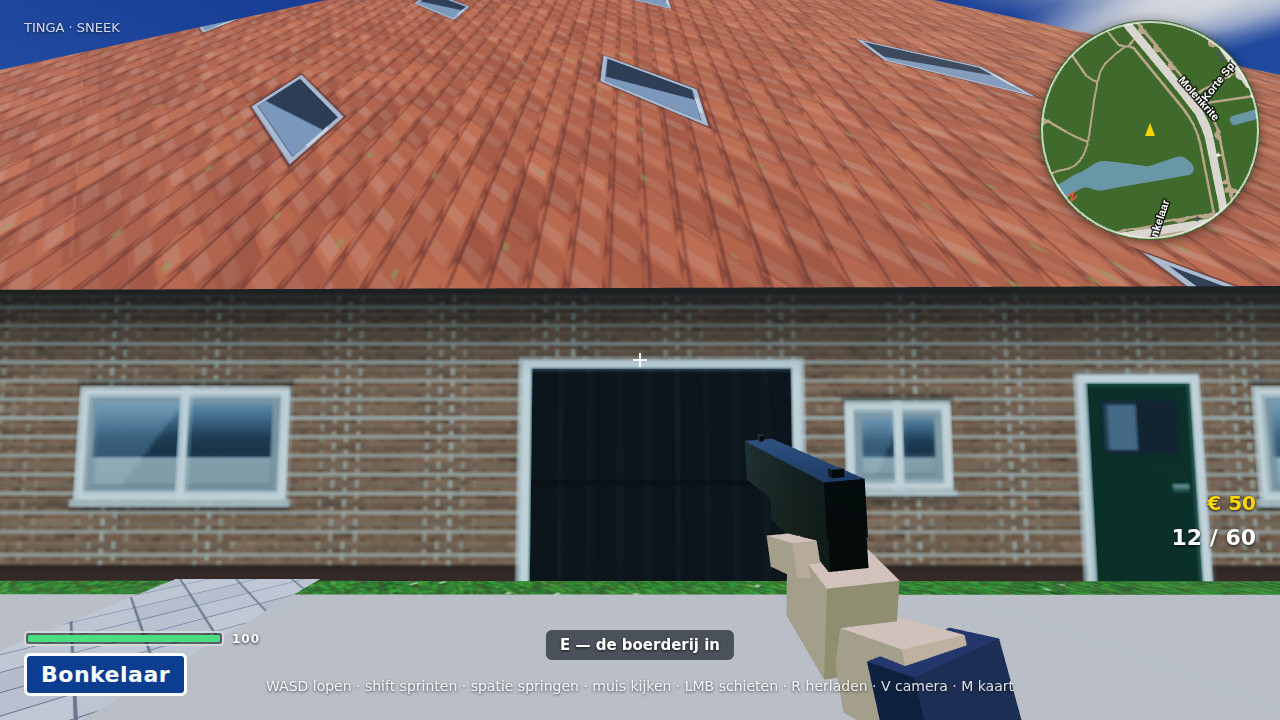
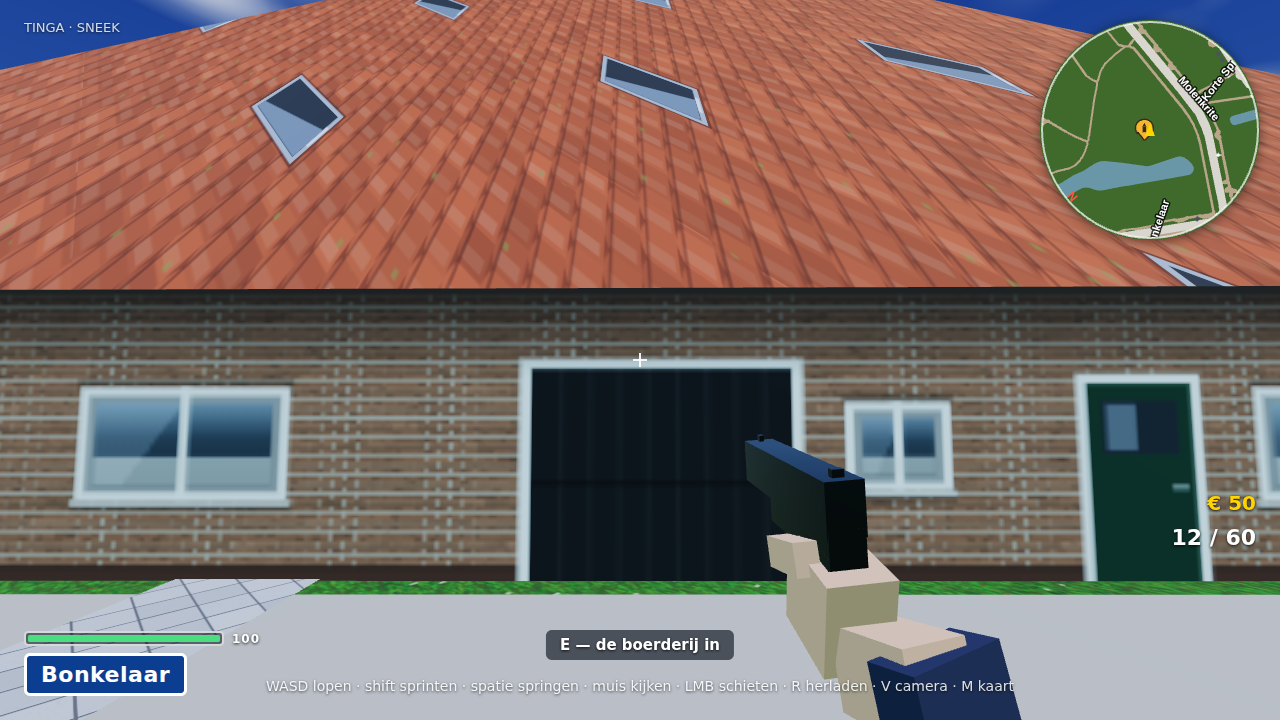
Winkelicoontje op de kaart bij Tinga State
Een amberkleurig speldje met een patroon erin, op de plek van de schuurdeur.
Het staat op de minikaart en op de grote kaart (M); daar staat de naam
erbij. Op de minikaart wordt de kaartrotatie eruit gedraaid en op de grote
kaart krijgt hij een vaste maat in beeldpunten, zodat hij altijd rechtop en
leesbaar blijft.

js/hud.js weet niet welke winkels er zijn: main.js haalt ze bij de
binnenruimtes op en geeft ze door met zetWinkels.

npm run winkeltest telt nu drieëntwintig controles; de vier nieuwe kijken of
de winkel op de goede plek staat en of het icoontje echt op allebei de
kaartdoeken terechtkomt. verhaaltest en wereldtest blijven groen.

Claude-Session: https://claude.ai/code/session_01WgAFKF7c6sRvVJAMMuzXa6

Changed region(s): [[0.7812, 0.0, 1.0, 0.0611], [0.125, 0.0, 0.25, 0.0306], [0.875, 0.1528, 0.9062, 0.1833]]

diff --git a/js/hud.js b/js/hud.js
@@ -132,6 +132,36 @@ export class HUD {
     this.sterEl.classList.toggle('knippert', !!knippert);
   }
 
+  /*
+   Winkels op de kaart: [{ x, z, naam }]. Op dit moment is dat alleen de
+   munitiewinkel in de boerderij Tinga State (js/boerderij.js).
+  */
+  zetWinkels(lijst) { this.winkels = lijst || []; }
+
+  /*
+   Het winkeltje: een amberkleurig schildje met een patroon erin, getekend in
+   beeldpunten rond (0,0). De aanroeper zet hem op zijn plek en draait de
+   kaartrotatie eruit, zodat het icoontje altijd rechtop staat — een meedraaiend
+   symbool is op een draaiende minikaart niet te lezen.
+  */
+  static tekenWinkel(c, r = 9) {
+    c.beginPath();
+    c.moveTo(0, r * 1.25);                         // punt naar beneden, als een speldje
+    c.lineTo(-r * 0.72, r * 0.35);
+    c.arc(0, -r * 0.1, r, Math.PI * 0.78, Math.PI * 0.22, false);
+    c.closePath();
+    c.fillStyle = '#f2b632'; c.fill();
+    c.strokeStyle = '#3a2c10'; c.lineWidth = 1.4; c.stroke();
+    // een patroon: huls met een punt erop
+    c.fillStyle = '#3a2c10';
+    c.fillRect(-r * 0.20, -r * 0.28, r * 0.40, r * 0.62);
+    c.beginPath();
+    c.moveTo(-r * 0.20, -r * 0.28);
+    c.lineTo(0, -r * 0.72);
+    c.lineTo(r * 0.20, -r * 0.28);
+    c.closePath(); c.fill();
+  }
+
   // Mislukte missie: het beeld vaagt naar grijs.
   zetGrijs(aan) { document.body.classList.toggle('mislukt', !!aan); }
 
@@ -232,6 +262,14 @@ export class HUD {
         c.beginPath(); c.arc(p.x * scale, p.z * scale, r, 0, Math.PI * 2); c.fill();
       }
     }
+    // winkels: het icoontje draait niet mee, anders staat hij op zijn kop
+    for (const w of (this.winkels || [])) {
+      c.save();
+      c.translate(w.x * scale, w.z * scale);
+      c.rotate(-this._kaartRot);
+      HUD.tekenWinkel(c, 9);
+      c.restore();
+    }
     this.drawLabels(c, scale, -yaw + Math.PI, 40);
     c.restore();
     // speler
@@ -280,6 +318,19 @@ HUD.prototype.drawBig = function (player, vehicles) {
     for (const p of this.politiePlekken) {
       c.beginPath(); c.arc(p.x, p.z, (p.wagen ? 5.5 : 4) / scale, 0, Math.PI * 2); c.fill(); c.stroke();
     }
+  }
+  // winkels, met hun naam erbij; hier staat noorden boven, dus geen tegendraai
+  for (const w of (this.winkels || [])) {
+    c.save();
+    c.translate(w.x, w.z);
+    c.scale(1 / scale, 1 / scale);              // vaste maat in beeldpunten
+    HUD.tekenWinkel(c, 9);
+    if (w.naam) {
+      c.font = 'bold 12px sans-serif'; c.textAlign = 'center';
+      c.lineWidth = 3; c.strokeStyle = 'rgba(8,14,24,0.85)';
+      c.strokeText(w.naam, 0, -16); c.fillStyle = '#f5e6c0'; c.fillText(w.naam, 0, -16);
+    }
+    c.restore();
   }
   const px = this.kaartVanaf ? this.kaartVanaf.x : (player.inCar ? player.inCar.x : player.pos.x);
   const pz = this.kaartVanaf ? this.kaartVanaf.z : (player.inCar ? player.inCar.z : player.pos.z);

diff --git a/js/main.js b/js/main.js
@@ -266,6 +266,7 @@ const verhaal = initVerhaal({
 // binnen en weer naar buiten (js/interieur.js).
 const LEEG = {
   update() {}, toets() { return false; }, binnen() { return false; }, meldAan() {}, kaart() { return null; },
+  winkels: [],
 };
 const interieur = initInterieur({ scene, player }) || LEEG;
 // En achter de schuurdeur van Tinga State: de deel met de toonbank waar je
@@ -274,6 +275,8 @@ const boerderij = initBoerderij({ scene, player, hud, verhaal }) || LEEG;
 // Alle binnenruimtes bij elkaar; ze werken allemaal op dezelfde manier.
 const binnenruimtes = [interieur, boerderij];
 const ergensBinnen = (x, z) => binnenruimtes.some(r => r.binnen(x, z));
+// winkeltjes op de minikaart en op de grote kaart
+hud.zetWinkels(binnenruimtes.flatMap(r => r.winkels || []));
 // Binnen wijst de HUD nog steeds de straat buiten aan (zie hud.kaartVanaf).
 function straatOf(x, z) {
   let k = null;

diff --git a/js/boerderij.js b/js/boerderij.js
@@ -530,5 +530,7 @@ export function initBoerderij({ scene, player, hud, verhaal }) {
     get groep() { return groep; },
     get verkoper() { return verkoper; },
     get plekken() { return { nul: NUL, deurBuiten, deurBinnen: binnenDeur, stoep, toonbank: bankVoor }; },
+    // voor het winkelicoontje op de kaart (js/hud.js): waar de schuurdeur zit
+    get winkels() { return [{ x: deurBuiten.x, z: deurBuiten.z, naam: 'Tinga State' }]; },
   };
 }

diff --git a/docs/METHODIEK.md b/docs/METHODIEK.md
@@ -953,9 +953,17 @@ Twee dingen die pas opvielen doordat er nu naar dit pand gekeken werd:
    stap 9 verkleind worden is dat doek zelf 288 px — en zonder maat bleef de
    rest van het canvas zwart. Eén `drawImage` met de doelmaat erbij.
 
-Controle: `npm run winkeltest` (negentien controles over het beginkapitaal, de
-deur heen en terug, de maten van de deel, de wanden, de prijs, het geld en de
-kogels, en de lege portemonnee). `npm run winkelshots` maakt de foto's. De
+Op de kaart staat de winkel als een amberkleurig speldje, op de plek van de
+schuurdeur. Op de minikaart wordt de kaartrotatie er weer uitgedraaid en op de
+grote kaart wordt hij op een vaste maat in beeldpunten getekend — hetzelfde
+recept als bij de politiestippen, om dezelfde reden. `js/hud.js` weet niet welke
+winkels er zijn: `main.js` haalt ze bij de binnenruimtes op en geeft ze door met
+`zetWinkels`.
+
+Controle: `npm run winkeltest` (drieëntwintig controles over het beginkapitaal,
+de deur heen en terug, de maten van de deel, de wanden, de prijs, het geld en de
+kogels, de lege portemonnee, en het icoontje op allebei de kaarten — geteld in
+amberkleurige beeldpunten op het kaartdoek). `npm run winkelshots` maakt de foto's. De
 verhaalproef telt na de beloning nu € 550 in plaats van € 500; verder blijven
 alle proeven groen en staat `npm run geo:boven` nog op 1,31 %. Het
 texturegeheugen loopt met de binnenruimte mee van 82 naar 83 MB, de draw calls

diff --git a/README.md b/README.md
@@ -359,10 +359,17 @@ Je begint het spel met **€ 50**, dus één doos munitie zit er altijd in. Daar
 de beloning van Johan aan het eind van het verhaal is € 500 (zie [Het verhaal](#het-verhaal)). Je geld
 staat rechtsonder in beeld en gaat mee in de opslag.
 
-`npm run winkeltest` toetst het geheel: het beginkapitaal, de deur heen en terug, de maten van de
-deel, de wanden die je binnenhouden, de prijs, wat er van je geld af gaat en wat je aan kogels
-bijkrijgt, en dat je met een lege portemonnee niets koopt. `npm run winkelshots` maakt de drie foto's
-hierboven.
+De winkel is te vinden zonder ernaar te zoeken: op de minikaart én op de grote kaart (**M**) staat een
+amberkleurig speldje met een patroon erin, op de plek van de schuurdeur. Op de minikaart draait het
+icoontje niet mee met de kaart, zodat het altijd rechtop staat; op de grote kaart staat de naam
+erbij.
+
+![Het winkeltje op de kaart](docs/screenshots/winkel_kaart.png)
+
+`npm run winkeltest` toetst het geheel — 23 controles: het beginkapitaal, de deur heen en terug, de
+maten van de deel, de wanden die je binnenhouden, de prijs, wat er van je geld af gaat en wat je aan
+kogels bijkrijgt, dat je met een lege portemonnee niets koopt, en dat het icoontje op allebei de
+kaarten getekend wordt. `npm run winkelshots` maakt de foto's hierboven.
 
 ## Opslaan en laden
 
